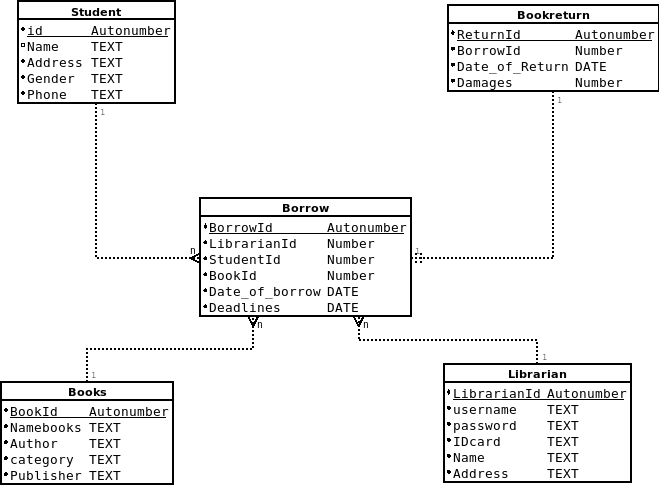
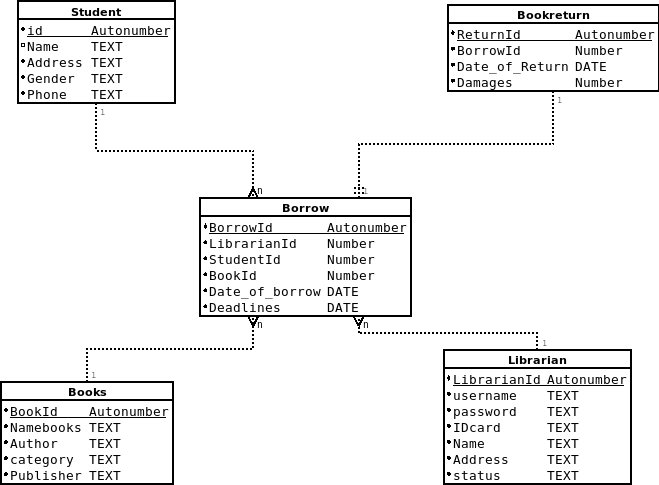
only admin

Changed region(s): [[0.5463, 0.6804, 0.9712, 1.0], [0.3642, 0.3711, 0.3945, 0.4021], [0.2731, 0.5258, 0.3035, 0.5567]]

diff --git a/librarian.php b/librarian.php
@@ -1,5 +1,7 @@
 <?php
 require_once("config.php");
+require_once("check_admin.php");
+open_only_admin();
 ?>
 <!DOCTYPE html>
 <html>
@@ -16,11 +18,11 @@ require_once("config.php");
     <?php include('nav.php');?>
     <main>
       <article>
-        <h1>ระบบจัดการนักเรียนห้องสมุด</h1>
-        <a href="./add_student.php">เพิ่มรายชื่อ</a><br>
+        <h1>ระบบจัดการบรรณารักษ์ห้องสมุด</h1>
+        <a href="./add_librarian.php">เพิ่มรายชื่อ</a><br>
         <?php
         require("db.php");
-	    $sql = "SELECT * FROM Students";
+	    $sql = "SELECT * FROM Librarian";
         $query = mysqli_query($con,$sql);
         $rowcount=mysqli_num_rows($query);
         if($rowcount== 0){
@@ -31,15 +33,10 @@ require_once("config.php");
     <table border="1">
         <tr>
         <th> <div align="center">ชื่อ</div></th>
-        <th> <div align="center">รหัส</div></th>
-        <th> <div align="center">รายการยืมที่ค้าง</div></th>
-        <?php
-        require_once("check_admin.php");
-        if(is_admin()){
-        ?>
+        <th> <div align="center">บัตรประชาชน</div></th>
         <th> <div align="center">แก้ไขข้อมูล</div></th>
-        <th> <div align="center">ลบรายชื่อ</div></th>
-        <?php } ?>
+        <th> <div align="center">เปลี่ยนรหัสผ่าน</div></th>
+        <th> <div align="center">ลบ</div></th>
     </tr>
 <?php
 while($result=mysqli_fetch_array($query,MYSQLI_ASSOC))
@@ -47,11 +44,10 @@ while($result=mysqli_fetch_array($query,MYSQLI_ASSOC))
 ?>
   <tr>
     <td><div align="center"><?php echo $result["Name"];?></div></td>
-    <td><?php echo $result["id"];?></td>
-    <td><a href="./student_borrow.php?stu_id=<?php echo $result["id"];?>">คลิก</a></td>
-    <?php if(is_admin()){ ?><td>
-    <a href="./edit_student.php?stu_id=<?php echo $result["id"];?>">คลิก</a></td>
-    <td><a href="./del_student.php?stu_id=<?php echo $result["id"];?>">คลิก</a></td><?php } ?>
+    <td><?php echo $result["IDcard"];?></td>
+    <td><a href="./edit_librarian.php?stu_id=<?php echo $result["LibrarianId"];?>">คลิก</a></td>
+    <td><a href="./edit_librarian.php?stu_id=<?php echo $result["LibrarianId"];?>">คลิก</a></td>
+    <td><a href="./del_student.php?stu_id=<?php echo $result["LibrarianId"];?>">คลิก</a></td>
   </tr>
 <?php
 }

diff --git a/edit_librarian.php b/edit_librarian.php
@@ -1,0 +1,61 @@
+<?php
+/*
+หน้านี้เป็นหน้าสำหรับเพิ่มรายการที่ยืม หรือ ลบรายการที่ยืม โดยสามารถยกเลิกการยืมได้
+*/
+$st_id=$_GET['stu_id'];
+require_once("is_login.php");
+require_once("config.php");
+?>
+<!DOCTYPE html>
+<html>
+<head>
+    <meta charset="utf-8" />
+    <meta http-equiv="X-UA-Compatible" content="IE=edge">
+    <title>ทดสอบ</title>
+    <meta name="viewport" content="width=device-width, initial-scale=1">
+    <link rel="stylesheet" type="text/css" media="screen" href="main.css" />
+    <script src="main.js"></script>
+</head>
+<body>
+    <header><?php echo $name_web;?></header>
+    <?php include('nav.php');?>
+    <main>
+      <article>
+        <h1>รายการยืมหนังสือที่ค้าง</h1>
+        <?php
+        echo "รหัสนักเรียน : ".$st_id;
+        ?>
+        <?php
+        require("db.php");
+	    $sql = "SELECT * FROM Students WHERE id=".$st_id;//"SELECT * FROM student_not_return WHERE StudentId=".$_COOKIE['studentid'];
+        $query = mysqli_query($con,$sql);
+        $rowcount=mysqli_num_rows($query);
+        if($rowcount== 0){
+            echo "<br>ไม่มีรายชื่อในระบบ";
+         }
+         else{
+    ?>
+<?php
+$result=mysqli_fetch_array($query,MYSQLI_ASSOC)
+?>
+  <form action="./save_edit_student.php"  method="POST">
+        <br>ชื่อ : <input type="text" name="name" value="<?php echo $result['Name'];  ?>"><br>
+        ที่อยู่ : <input type="text" name="address" value="<?php echo $result['Address'];  ?>"><br>
+        ปีเดือนวันเกิด : <input type="date" name="dob" value="<?php echo $result['DOB'];  ?>"><br>
+        เพศ : <input type="text" name="gender" value="<?php echo $result['Gender'];  ?>"><br>
+        เบอร์ : <input type="tel" name="phone" value="<?php echo $result['Phone'];  ?>"><br>
+        <input type="hidden" name="id" value=<?php echo $st_id; ?>>
+        <input type="submit" value="Submit">
+    </form>
+<?php
+}
+?>
+</table>
+<?php
+mysqli_close($conn);
+?>
+    </article>
+    </main>
+    <footer>Copyright <?php echo $name_web;?></footer>
+</body>
+</html>

diff --git a/save_add_librarian.php b/save_add_librarian.php
@@ -3,12 +3,14 @@
 เพิ่มข้อมูลบรรรักษ์
 */
 require_once("is_login.php");
+require_once("check_admin.php");
+open_only_admin();
 require_once("db.php");
 $IDcard=$_POST['idcard'];
 $Name=$_POST['name'];
 $Gender=$_POST['gender'];
 $Address=$_POST['address'];
-$sql = "INSERT INTO Librarian (IDcard,Name,Gender,Address) VALUES ('".$IDcard."', '".$Name."', '".$Gender."','".$Address."')";
+$sql = "INSERT INTO Librarian (IDcard,Name,Gender,Address,status) VALUES ('".$IDcard."', '".$Name."', '".$Gender."','".$Address."','user')";
 mysqli_query($con,$sql);
 mysqli_commit($con);
 mysqli_close($con);

diff --git a/check_login.php b/check_login.php
@@ -11,6 +11,9 @@ if(!empty($_POST['user'])&&!empty($_POST['password'])) {
         $cookie_name = "user";
         $cookie_value = $rowcount['LibrarianId'];
         setcookie($cookie_name, $cookie_value, time() + (86400 * 30), "/"); // 86400 = 1 day
+        $cookie_name = "status";
+        $cookie_value = $rowcount['status'];
+        setcookie($cookie_name, $cookie_value, time() + (86400 * 30), "/"); // 86400 = 1 day
         mysqli_close($con);
         header("Location: index.php");
         echo "ok";

diff --git a/nav.php b/nav.php
@@ -6,6 +6,10 @@
         echo '<a href="code.php">ยืมคืน</a>';
         echo '<a href="book.php">หนังสือ</a>';
         echo '<a href="student.php">นักเรียน</a>';
+        require_once("check_admin.php");
+        if(is_admin()){
+          echo '<a href="librarian.php">บรรณารักษ์</a>';
+        }
         echo '<a href="logout.php">Logout</a>';
       }
       else{

diff --git a/check_admin.php b/check_admin.php
@@ -1,0 +1,21 @@
+<?php
+function is_admin() {
+ if (isset($_COOKIE['status']))
+ {
+     if($_COOKIE['status']=="admin"){
+   return true;
+     }
+     else{
+         return false;
+     }
+}
+else{
+    return false;
+}
+}
+function open_only_admin() {
+if(!is_admin()){
+    header("Location: ./index.php");
+    exit();
+}}
+?>

diff --git a/logout.php b/logout.php
@@ -6,6 +6,8 @@ if (isset($_COOKIE['studentid']))
     setcookie("studentid","",1,'/');
     unset($_COOKIE["studentid"]);
 }
+setcookie("status","",1,'/');
+unset($_COOKIE["status"]);
 header("Location: index.php");
 exit; 
 ?>

diff --git a/save_add_student.php b/save_add_student.php
@@ -11,4 +11,6 @@ mysqli_query($con,$sql);
 mysqli_commit($con);
 mysqli_close($con);
 echo "เพิ่มข้อมูลนักเรียนสำเร็จ";
+header("Location: ./student.php");
+exit();
 ?>

diff --git a/save_edit_student.php b/save_edit_student.php
@@ -1,5 +1,7 @@
 <?php
 require_once("is_login.php");
+require_once("check_admin.php");
+open_only_admin();
 require_once("db.php");
 $name=$_POST['name'];
 $id=$_POST['id'];
